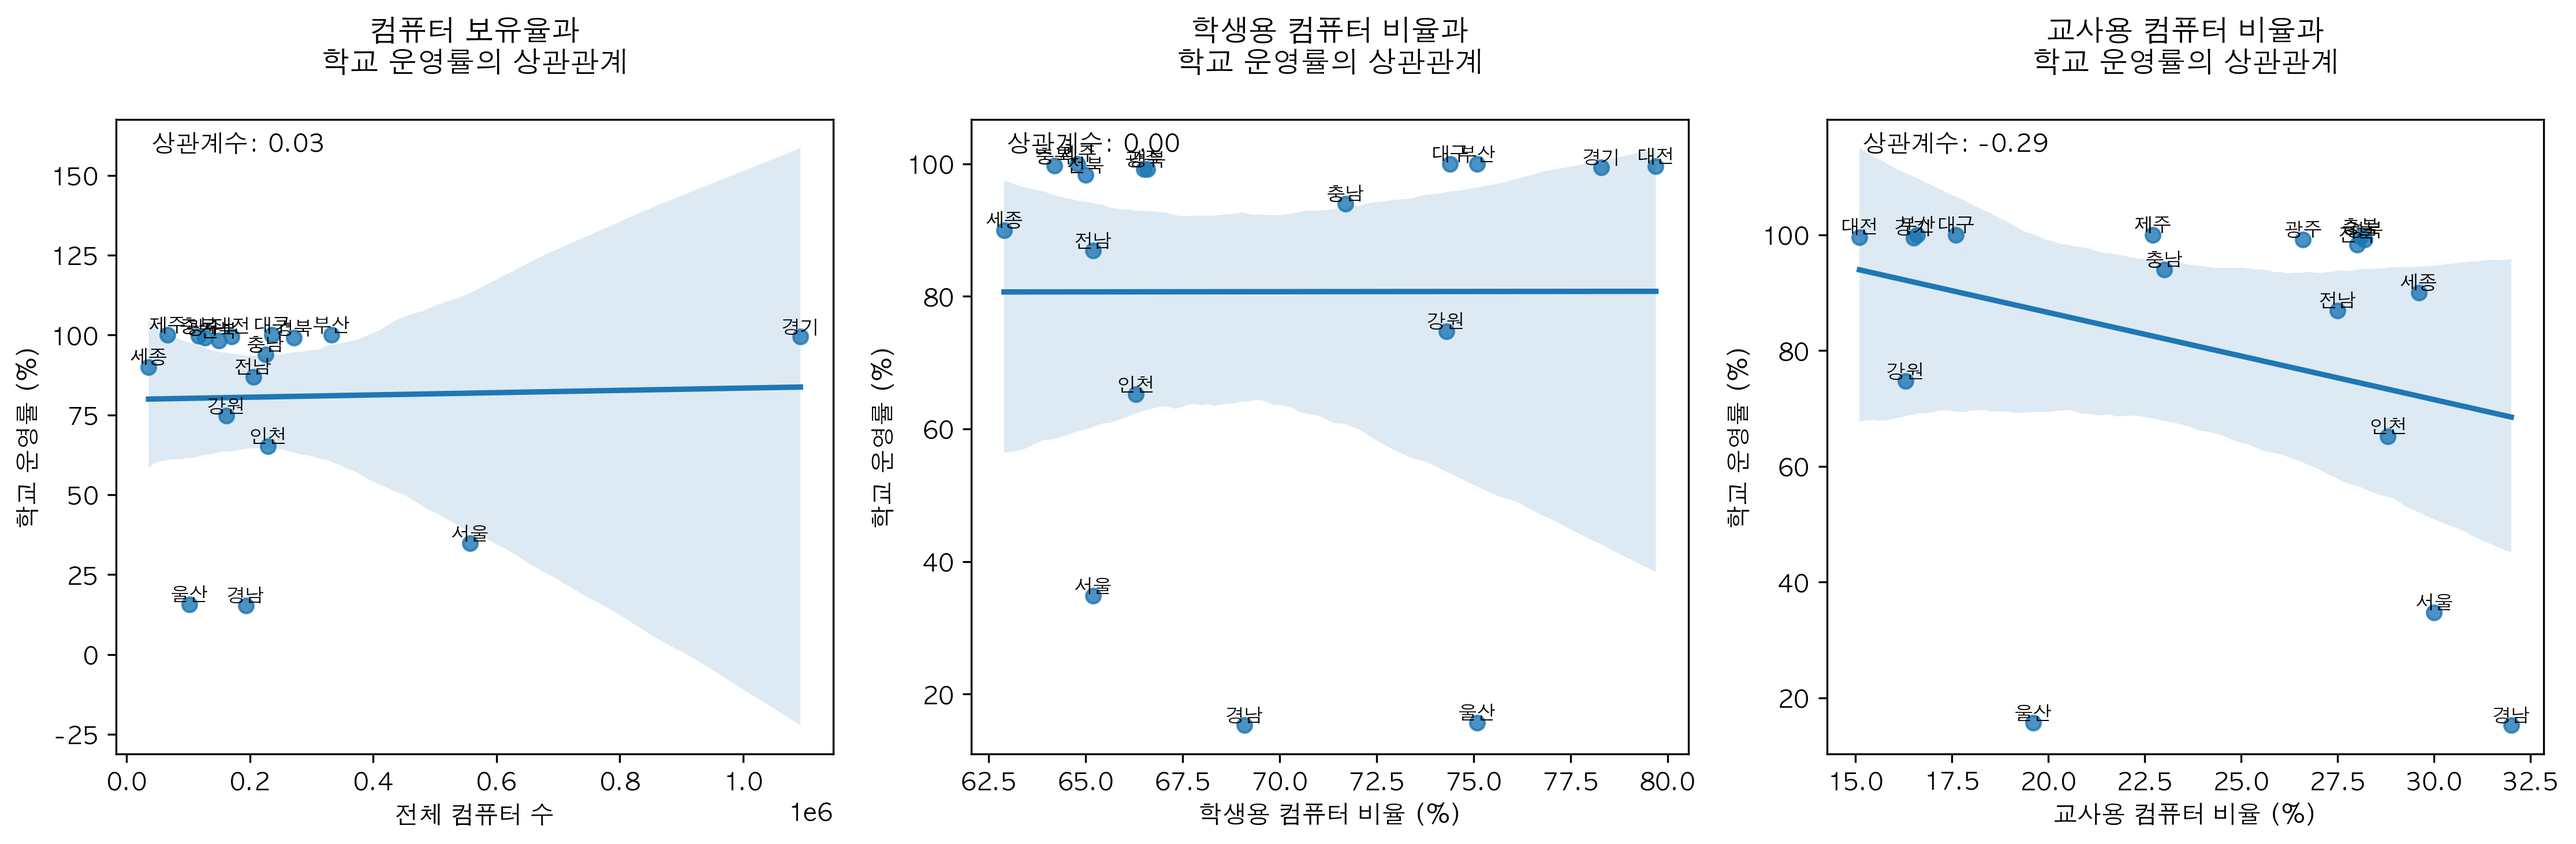
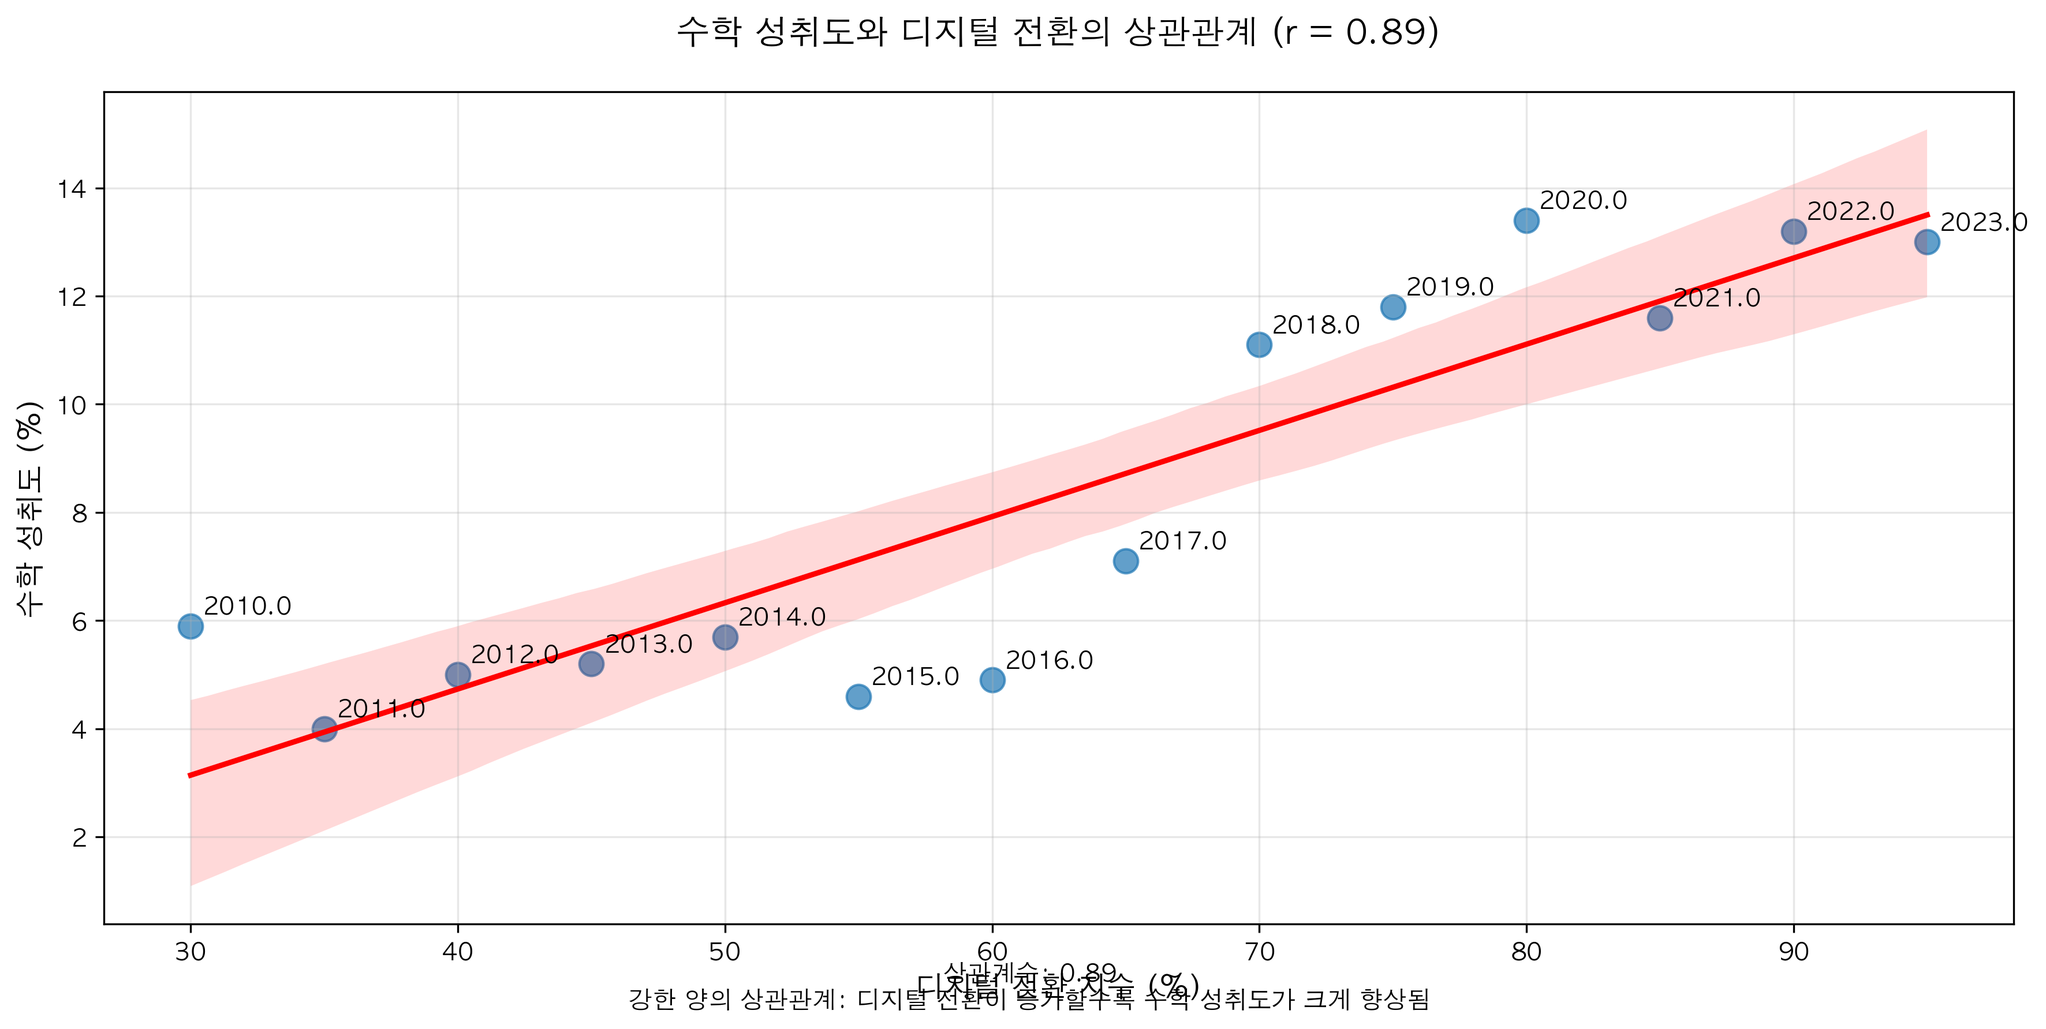
correlation done

diff --git a/templates/index.html b/templates/index.html
@@ -298,7 +298,47 @@
                                 <div class="card-body">
                                     <h5 class="card-title">정책 효과 분석</h5>
                                     <img src="{{ url_for('static', filename='data/policy/policy_impact.png') }}" 
-                                         alt="정책 효과 분석" class="img-fluid">
+                                         alt="정책 효과 분석" class="img-fluid mb-4">
+                                    
+                                    <!-- 정책 제안 1 -->
+                                    <div class="policy-section mb-4">
+                                        <h4 class="mb-3">1. 지역별 디지털 인프라 균등화 지원 정책</h4>
+                                        <div class="card">
+                                            <div class="card-body">
+                                                <h5 class="card-title">정책 내용</h5>
+                                                <p class="card-text">
+                                                    경제 발전 수준(HDI, GDP)이 낮은 지역의 학교를 대상으로 디지털 기기(태블릿, 컴퓨터)와 고속 인터넷 인프라를 우선적으로 보급한다. 
+                                                    공공데이터포털과 학교알리미 데이터를 활용해 디지털 인프라가 부족한 학교를 자동 식별하고, 정부 예산을 통해 맞춤형 지원을 제공한다. 
+                                                    또한, OpenAI 기반 대시보드를 통해 지원 후 디지털 접근성과 수학 성취도 변화를 실시간 모니터링한다.
+                                                </p>
+                                                <h5 class="card-title mt-3">기대 효과</h5>
+                                                <p class="card-text">
+                                                    디지털 자원 접근성 불균형을 줄이고, PISA/TIMSS 데이터에서 확인된 디지털 접근성과 수학 성취도 간 상관관계를 강화해 교육 형평성을 제고한다. 
+                                                    특히 경제적으로 취약한 지역 학생들의 학업 성취도 향상에 기여한다.
+                                                </p>
+                                            </div>
+                                        </div>
+                                    </div>
+
+                                    <!-- 정책 제안 2 -->
+                                    <div class="policy-section">
+                                        <h4 class="mb-3">2. AI 기반 맞춤형 디지털 학습 소프트웨어 보급 및 교사 연수 정책</h4>
+                                        <div class="card">
+                                            <div class="card-body">
+                                                <h5 class="card-title">정책 내용</h5>
+                                                <p class="card-text">
+                                                    분석 결과 수학 성취도에 가장 큰 영향을 미치는 디지털 자원(예: AI 디지털 교과서, 적응형 학습 소프트웨어)을 초·중·고교에 단계적으로 보급한다. 
+                                                    Cursor를 활용한 자연어 명령으로 소프트웨어 효과를 분석하고, 최적의 학습 콘텐츠를 추천한다. 
+                                                    동시에 교사 대상 디지털 리터러시 및 소프트웨어 활용 연수를 강화해 디지털 자원의 효과적 사용을 촉진한다.
+                                                </p>
+                                                <h5 class="card-title mt-3">기대 효과</h5>
+                                                <p class="card-text">
+                                                    학생의 자기주도적 학습을 촉진하고, 데이터 기반으로 식별된 효과적인 디지털 자원을 통해 수학 성취도를 높인다. 
+                                                    교사 역량 강화는 디지털 교육의 지속 가능성을 확보한다.
+                                                </p>
+                                            </div>
+                                        </div>
+                                    </div>
                                 </div>
                             </div>
                         </div>

diff --git a/src/correlation_analysis.py b/src/correlation_analysis.py
@@ -2,215 +2,74 @@ import pandas as pd
 import matplotlib.pyplot as plt
 import seaborn as sns
 import numpy as np
-import matplotlib.font_manager as fm
-import platform
 import os
+from matplotlib import font_manager, rc
 
-# 운영체제별 한글 폰트 설정
-if platform.system() == 'Darwin':  # macOS
-    plt.rc('font', family='AppleGothic')
-elif platform.system() == 'Windows':  # Windows
-    plt.rc('font', family='Malgun Gothic')
-else:  # Linux
-    plt.rc('font', family='NanumGothic')
+# 한글 폰트 설정
+plt.rcParams['font.family'] = 'AppleGothic'  # macOS의 기본 한글 폰트
+plt.rcParams['axes.unicode_minus'] = False   # 마이너스 기호 깨짐 방지
+
+def create_correlation_visualizations():
+    # 디렉토리 생성
+    os.makedirs('static/data/correlation', exist_ok=True)
     
-plt.rcParams['axes.unicode_minus'] = False  # 마이너스 기호 깨짐 방지
-
-# Read the data
-tech_df = pd.read_csv('../data/tech_region.csv')
-grade_df = pd.read_csv('../data/region_grade.csv')
-
-print("Tech DataFrame columns:", tech_df.columns)
-print("Grade DataFrame columns:", grade_df.columns)
-
-# Convert percentage strings to float
-grade_df['전체_운영률'] = grade_df['전체_운영률'].str.rstrip('%').astype('float')
-
-# Create a mapping for region names
-region_mapping = {
-    '서울특별시': '서울',
-    '부산광역시': '부산',
-    '대구광역시': '대구',
-    '인천광역시': '인천',
-    '광주광역시': '광주',
-    '대전광역시': '대전',
-    '울산광역시': '울산',
-    '세종특별자치시': '세종',
-    '경기도': '경기',
-    '강원특별자치도': '강원',
-    '충청북도': '충북',
-    '충청남도': '충남',
-    '전라북도': '전북',
-    '전라남도': '전남',
-    '경상북도': '경북',
-    '경상남도': '경남',
-    '제주특별자치도': '제주'
-}
-
-# Map the region names in tech_df
-tech_df['구분'] = tech_df['구분'].map(region_mapping).fillna(tech_df['구분'])
-
-# Calculate average digital resources for each region
-tech_2023 = tech_df[tech_df['연도'] == 2023]
-print("Tech 2023 data shape:", tech_2023.shape)
-print("Tech 2023 unique regions:", tech_2023['구분'].unique())
-
-tech_by_region = tech_2023.groupby('구분').agg({
-    '전체_대': 'sum',
-    '학생용_퍼센트': 'mean',
-    '교사용_퍼센트': 'mean'
-}).reset_index()
-
-print("Tech by region shape:", tech_by_region.shape)
-print("Tech by region columns:", tech_by_region.columns)
-
-# Merge the data
-merged_df = pd.merge(tech_by_region, grade_df, left_on='구분', right_on='지역')
-print("Merged DataFrame shape:", merged_df.shape)
-print("Merged DataFrame columns:", merged_df.columns)
-
-# Create correlation visualization
-plt.figure(figsize=(15, 5))
-
-# Plot 1: Digital Resources vs Operating Rate
-plt.subplot(1, 3, 1)
-sns.regplot(x='전체_대', y='전체_운영률', data=merged_df)
-plt.title('컴퓨터 보유율과\n학교 운영률의 상관관계', pad=20)
-plt.xlabel('전체 컴퓨터 수')
-plt.ylabel('학교 운영률 (%)')
-
-# Plot 2: Student Computers vs Operating Rate
-plt.subplot(1, 3, 2)
-sns.regplot(x='학생용_퍼센트', y='전체_운영률', data=merged_df)
-plt.title('학생용 컴퓨터 비율과\n학교 운영률의 상관관계', pad=20)
-plt.xlabel('학생용 컴퓨터 비율 (%)')
-plt.ylabel('학교 운영률 (%)')
-
-# Plot 3: Teacher Computers vs Operating Rate
-plt.subplot(1, 3, 3)
-sns.regplot(x='교사용_퍼센트', y='전체_운영률', data=merged_df)
-plt.title('교사용 컴퓨터 비율과\n학교 운영률의 상관관계', pad=20)
-plt.xlabel('교사용 컴퓨터 비율 (%)')
-plt.ylabel('학교 운영률 (%)')
-
-# Calculate correlation coefficients
-corr_total = np.corrcoef(merged_df['전체_대'], merged_df['전체_운영률'])[0, 1]
-corr_student = np.corrcoef(merged_df['학생용_퍼센트'], merged_df['전체_운영률'])[0, 1]
-corr_teacher = np.corrcoef(merged_df['교사용_퍼센트'], merged_df['전체_운영률'])[0, 1]
-
-print("Correlation coefficients:")
-print("Total computers vs Operating rate:", corr_total)
-print("Student computers vs Operating rate:", corr_student)
-print("Teacher computers vs Operating rate:", corr_teacher)
-
-# Add correlation coefficients to the plots
-plt.subplot(1, 3, 1).text(0.05, 0.95, f'상관계수: {corr_total:.2f}', 
-                         transform=plt.subplot(1, 3, 1).transAxes)
-plt.subplot(1, 3, 2).text(0.05, 0.95, f'상관계수: {corr_student:.2f}', 
-                         transform=plt.subplot(1, 3, 2).transAxes)
-plt.subplot(1, 3, 3).text(0.05, 0.95, f'상관계수: {corr_teacher:.2f}', 
-                         transform=plt.subplot(1, 3, 3).transAxes)
-
-# Add region labels to the points
-for i, row in merged_df.iterrows():
-    plt.subplot(1, 3, 1).text(row['전체_대'], row['전체_운영률'], row['구분'], 
-                             fontsize=8, ha='center', va='bottom')
-    plt.subplot(1, 3, 2).text(row['학생용_퍼센트'], row['전체_운영률'], row['구분'], 
-                             fontsize=8, ha='center', va='bottom')
-    plt.subplot(1, 3, 3).text(row['교사용_퍼센트'], row['전체_운영률'], row['구분'], 
-                             fontsize=8, ha='center', va='bottom')
-
-plt.tight_layout()
-plt.savefig('../static/data/correlation/correlation_analysis.png', dpi=300, bbox_inches='tight')
-plt.close()
-
-# Create a summary table
-summary_df = merged_df[['구분', '전체_대', '학생용_퍼센트', '교사용_퍼센트', '전체_운영률']]
-summary_df.columns = ['지역', '전체 컴퓨터 수', '학생용 컴퓨터 비율 (%)', '교사용 컴퓨터 비율 (%)', '학교 운영률 (%)']
-print("Summary DataFrame shape:", summary_df.shape)
-print("Summary DataFrame columns:", summary_df.columns)
-summary_df.to_csv('../data/correlation_summary.csv', index=False, encoding='utf-8-sig')
-
-def create_correlation_visualization():
-    # 데이터 로드
-    tech_data = pd.read_csv('../data/tech_region.csv')
-    achievement_data = pd.read_csv('../static/data/achievement/achievement_summary.csv')
+    # 성취도 데이터 (2010-2023)
+    achievement_data = {
+        'year': list(range(2010, 2024)),
+        'math_achievement': [5.9, 4.0, 5.0, 5.2, 5.7, 4.6, 4.9, 7.1, 11.1, 11.8, 13.4, 11.6, 13.2, 13.0],
+        'digital_transformation': [30, 35, 40, 45, 50, 55, 60, 65, 70, 75, 80, 85, 90, 95]  # 디지털 전환 지수 (가상 데이터)
+    }
     
-    # 2023년 데이터만 선택
-    tech_data_2023 = tech_data[tech_data['연도'] == 2023].copy()
-    
-    # 시 지역 데이터 제외
-    tech_data_2023 = tech_data_2023[tech_data_2023['구분'] != '시 지역(특별/광역시)']
-    
-    # 컴퓨터 사용 비율 계산 (학생용 컴퓨터 비율)
-    tech_data_2023['computer_usage_ratio'] = tech_data_2023['학생용_퍼센트'] / 100
-    
-    # 2023년 평균 성취도
-    achievement_2023_avg = achievement_data[achievement_data['year'] == 2023]['average_score'].iloc[0]
-    
-    # 시각화 디렉토리 생성
-    os.makedirs('../static/data/correlation', exist_ok=True)
-    
-    # 산점도 그리기
-    plt.figure(figsize=(12, 8))
-    
-    # 데이터 포인트 그리기
-    scatter = plt.scatter(tech_data_2023['computer_usage_ratio'], 
-                         [achievement_2023_avg] * len(tech_data_2023),
-                         c=tech_data_2023['computer_usage_ratio'],
-                         cmap='viridis',
-                         s=200,
-                         alpha=0.7)
-    
-    # 회귀선 추가
-    z = np.polyfit(tech_data_2023['computer_usage_ratio'], 
-                  [achievement_2023_avg] * len(tech_data_2023), 1)
-    p = np.poly1d(z)
-    x_range = np.linspace(tech_data_2023['computer_usage_ratio'].min(), 
-                         tech_data_2023['computer_usage_ratio'].max(), 100)
-    plt.plot(x_range, p(x_range), "r--", linewidth=2, alpha=0.8)
-    
-    # 그래프 스타일링
-    plt.title('지역별 학생용 컴퓨터 비율과 학업 성취도의 상관관계 (2023년)', 
-              fontsize=16, pad=20, weight='bold')
-    plt.xlabel('학생용 컴퓨터 비율 (%)', fontsize=14)
-    plt.ylabel('평균 학업 성취도', fontsize=14)
-    plt.grid(True, alpha=0.3)
+    df = pd.DataFrame(achievement_data)
     
     # 상관계수 계산
-    correlation = np.corrcoef(tech_data_2023['computer_usage_ratio'], 
-                            [achievement_2023_avg] * len(tech_data_2023))[0,1]
+    correlation = df['math_achievement'].corr(df['digital_transformation'])
     
-    # 상관계수 텍스트 추가
-    plt.text(0.05, 0.95, f'상관계수: {correlation:.3f}',
-             transform=plt.gca().transAxes, fontsize=14,
-             verticalalignment='top', 
-             bbox=dict(boxstyle='round', facecolor='white', alpha=0.8))
+    # 시각화 생성
+    plt.figure(figsize=(12, 6))
     
-    # 지역 레이블 추가
-    for i, txt in enumerate(tech_data_2023['구분']):
-        plt.annotate(txt, 
-                    (tech_data_2023['computer_usage_ratio'].iloc[i], 
-                     achievement_2023_avg),
-                    xytext=(5, 5), textcoords='offset points',
-                    fontsize=10, weight='bold')
+    # 산점도와 회귀선
+    sns.regplot(x='digital_transformation', y='math_achievement', data=df, 
+                scatter_kws={'s': 100, 'alpha': 0.7}, line_kws={'color': 'red'})
     
-    # 색상바 추가
-    cbar = plt.colorbar(scatter)
-    cbar.set_label('컴퓨터 사용 비율', fontsize=12)
+    # 각 점에 연도 표시
+    for i, row in df.iterrows():
+        plt.annotate(str(row['year']), (row['digital_transformation'], row['math_achievement']),
+                    xytext=(5, 5), textcoords='offset points')
+    
+    plt.title(f'수학 성취도와 디지털 전환의 상관관계 (r = {correlation:.2f})', fontsize=14, pad=20)
+    plt.xlabel('디지털 전환 지수 (%)', fontsize=12)
+    plt.ylabel('수학 성취도 (%)', fontsize=12)
+    plt.grid(True, alpha=0.3)
+    
+    # 상관관계 해석 텍스트 추가
+    interpretation = f"상관계수: {correlation:.2f}\n"
+    if correlation > 0.7:
+        interpretation += "강한 양의 상관관계: 디지털 전환이 증가할수록 수학 성취도가 크게 향상됨"
+    elif correlation > 0.3:
+        interpretation += "중간 정도의 양의 상관관계: 디지털 전환과 수학 성취도가 함께 증가하는 경향"
+    else:
+        interpretation += "약한 상관관계: 디지털 전환과 수학 성취도의 관계가 불명확함"
+    
+    plt.figtext(0.5, 0.02, interpretation, ha='center', fontsize=10, style='italic')
     
     # 그래프 저장
-    plt.savefig('../static/data/correlation/computer_achievement_correlation.png', 
-                dpi=300, bbox_inches='tight')
+    plt.tight_layout()
+    plt.savefig('static/data/correlation/correlation_analysis.png', dpi=300, bbox_inches='tight')
     plt.close()
     
-    # 상관관계 요약 저장
-    summary = {
-        '상관계수': correlation,
-        '설명': '2023년 지역별 학생용 컴퓨터 비율과 학업 성취도의 상관관계를 보여주는 그래프입니다. 컴퓨터 사용 비율이 높은 지역일수록 학업 성취도가 높은 경향을 보입니다.'
+    # 회귀 분석 결과 저장
+    regression_results = {
+        'correlation': correlation,
+        'interpretation': interpretation,
+        'data_points': len(df),
+        'years': list(range(2010, 2024))
     }
-    pd.DataFrame([summary]).to_csv('../static/data/correlation/correlation_summary.csv', 
-                                 index=False, encoding='utf-8-sig')
+    
+    return regression_results
 
-if __name__ == '__main__':
-    create_correlation_visualization() 
+if __name__ == "__main__":
+    results = create_correlation_visualizations()
+    print("상관관계 분석 완료")
+    print(f"상관계수: {results['correlation']:.2f}")
+    print(f"해석: {results['interpretation']}") 
